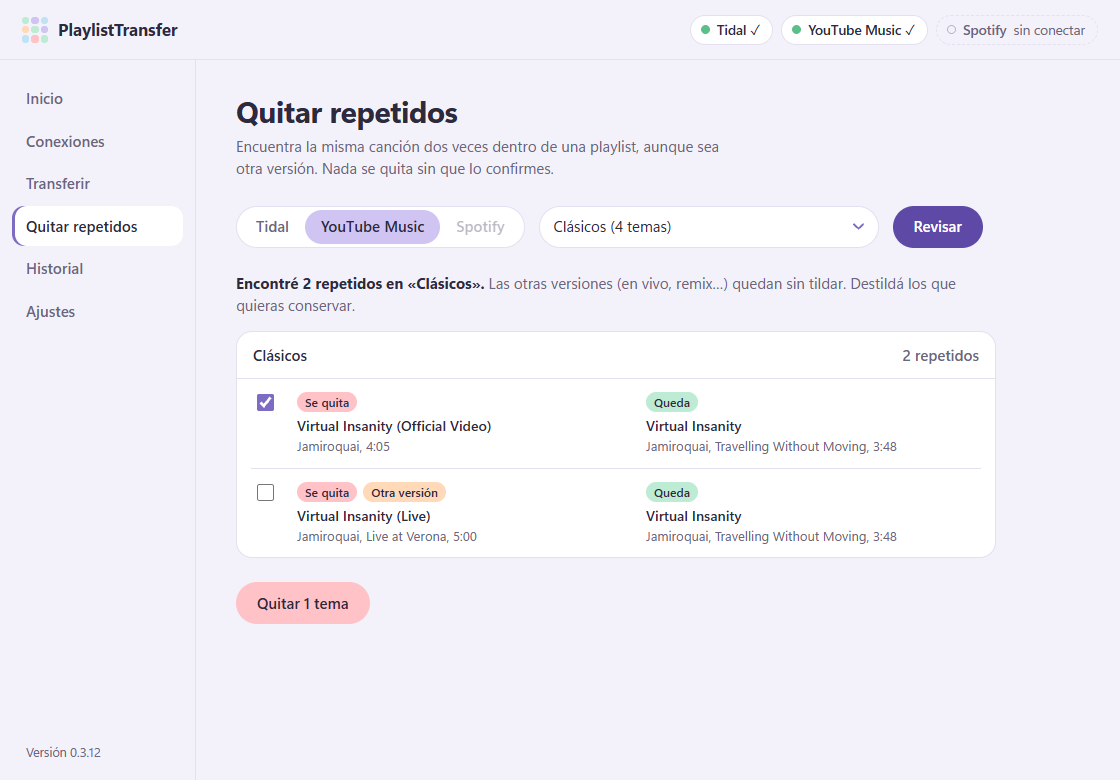
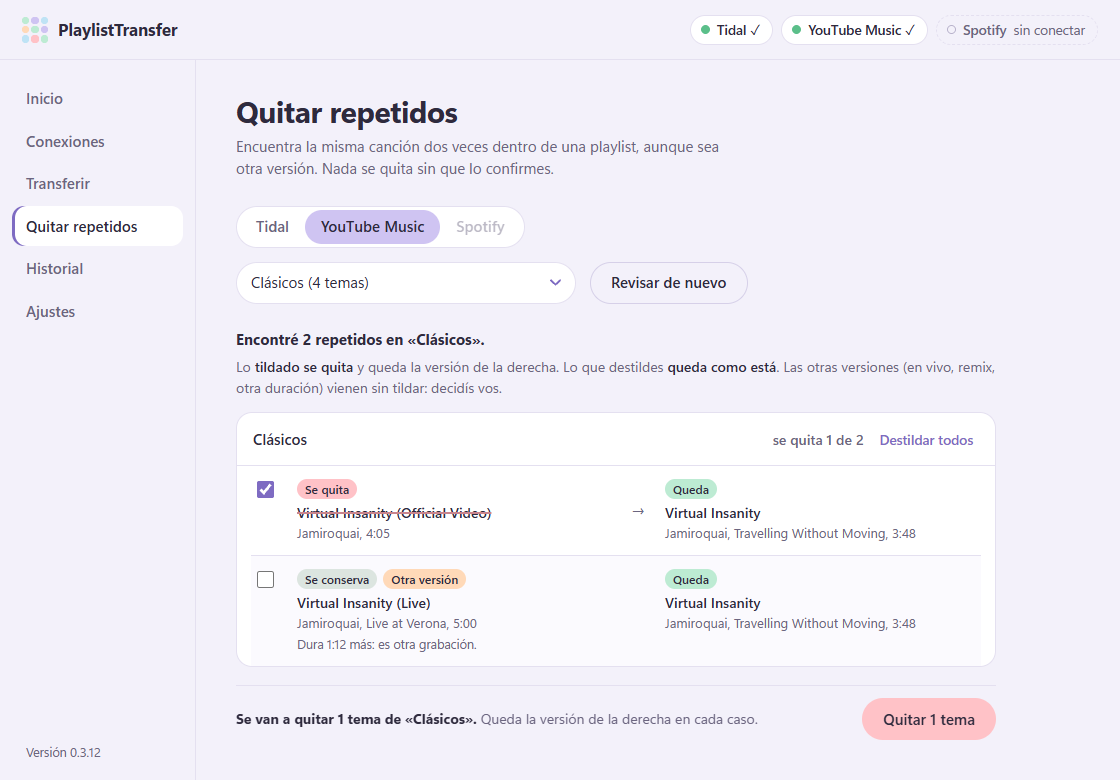
Remove duplicates: every row says what will happen; the decision stays in sight
- A bar pinned to the bottom of the window says "3 songs will be removed
  from 2 playlists. The version on the right stays in each case", with
  the button next to it, so nobody has to guess the decision is at the
  end of a long list. The black notice now appears above it.
- Ticked rows show "Removed", a struck-through title and an arrow to the
  one that stays; unticked rows switch to "Kept". Each playlist card
  says how many will be removed and has "Tick all / Untick all".
- Above the list, what ticking means is spelled out. Rows left unticked
  because they last very differently say so ("It's 2:45 longer: another
  recording").
- The confirmation lists how many songs go from each playlist. "Check"
  turns into a secondary "Check again" once there are results.
- Same layout as the approved prototype, measured in tests at both
  window sizes.

diff --git a/app/ui/js/dedupe.js b/app/ui/js/dedupe.js
@@ -42,8 +42,19 @@ function clearDups() {
   state.scan = null;
   $("#dups").innerHTML = ""; $("#dup-summary").hidden = true; $("#dup-actions").hidden = true;
   $("#dup-clean").hidden = true; $("#dup-failed").hidden = true; $("#dup-progress").hidden = true;
-  $("#dup-how").hidden = false;
+  $("#dup-hint").hidden = true; $("#dup-how").hidden = false;
+  scanButton(false);
 }
+
+/** Antes de revisar, "Revisar" es la acción principal; con el resultado a la vista lo es la barra de abajo. */
+function scanButton(results) {
+  const b = $("#dup-scan");
+  b.classList.toggle("primary", !results); b.classList.toggle("ghost", results);
+  b.textContent = t(results ? "dedupe.scan_again" : "dedupe.scan");
+}
+
+/** Texto con **negritas**: se escapa todo y solo se marcan esas partes. */
+const rich = text => esc(text).replace(/\*\*(.+?)\*\*/g, "<b>$1</b>");
 
 /* ---- revisando: cuál va y cómo dio cada una */
 
@@ -112,8 +123,6 @@ function showDupResults() {
   $("#dup-how").hidden = true;
   $("#dup-summary").hidden = false;
   const total = groups.reduce((s, g) => s + g.duplicates.length, 0);
-  const versions = groups.some(g => g.duplicates.some(d => d.kind !== "misma"));
-  const hints = groups.length ? (versions ? `${t("dedupe.versions_hint")} ` : "") + t("dedupe.uncheck_hint") : "";
   let head;
   if (!res.many) {
     const g = groups[0];
@@ -122,15 +131,22 @@ function showDupResults() {
     head = groups.length ? t("dedupe.found_many", { dups: dupCount(total), k: groups.length, total: res.checked })
       : t("dedupe.all_clean", { n: res.checked });
   }
-  $("#dup-summary").innerHTML = `<b>${esc(head)}</b>${hints ? ` <span class="muted">${esc(hints)}</span>` : ""}`;
+  $("#dup-summary").innerHTML = `<b>${esc(head)}</b>`;
+  // Qué significa tildar, dicho antes de la lista: nada queda librado a la intuición
+  $("#dup-hint").hidden = !groups.length; $("#dup-hint").innerHTML = groups.length ? rich(t("dedupe.decide_hint")) : "";
+  scanButton(true);
 
   const meta = s => [s.artist, s.album, mmss(s.duration)].filter(Boolean).map(esc).join(", ");
+  const why = d => d.longer == null ? ""
+    : `<div class="why">${esc(t(d.longer > 0 ? "dedupe.why_longer" : "dedupe.why_shorter", { time: mmss(Math.abs(d.longer)) }))}</div>`;
   $("#dups").innerHTML = groups.map((g, gi) => `
     <section class="dup-group" data-g="${gi}">
-      <header><span>${esc(g.name)}</span><span class="muted">${esc(dupCount(g.duplicates.length))}</span></header>
+      <header><span>${esc(g.name)}</span>
+        <span class="dup-group-right"><span class="dup-group-count"></span><button class="dup-toggle" data-toggle="${gi}"></button></span></header>
       <ul class="dups">${g.duplicates.map(d => `
         <li><input type="checkbox" ${d.kind === "misma" ? "checked" : ""} aria-label="${esc(t("dedupe.remove_aria", { title: d.song.title }))}" data-g="${gi}" data-i="${d.i}">
-          <div class="side remove"><span class="tag">${esc(t("dedupe.tag_remove"))}</span>${d.kind !== "misma" ? `<span class="tag version">${esc(t("dedupe.tag_version"))}</span>` : ""}<div class="t">${esc(d.song.title)}</div><div class="meta">${meta(d.song)}</div></div>
+          <div class="side remove"><span class="tag on">${esc(t("dedupe.tag_remove"))}</span><span class="tag off">${esc(t("dedupe.tag_keep_both"))}</span>${d.kind !== "misma" ? `<span class="tag version">${esc(t("dedupe.tag_version"))}</span>` : ""}<div class="t">${esc(d.song.title)}</div><div class="meta">${meta(d.song)}</div>${why(d)}</div>
+          <span class="arrow" aria-hidden="true">→</span>
           <div class="side keep"><span class="tag">${esc(t("dedupe.tag_keep"))}</span><div class="t">${esc(d.kept.title)}</div><div class="meta">${meta(d.kept)}</div></div></li>`).join("")}
       </ul>
     </section>`).join("");
@@ -162,17 +178,37 @@ function updateRemove() {
   if (!state.scan) return;
   const choices = dupChoices();
   const c = choices.reduce((s, x) => s + x.selected.length, 0), lists = choices.length;
-  const label = lists > 1 ? t("dedupe.remove_many", { songs: songs(c), lists: listCount(lists) }) : t("dedupe.remove_n", { n: c });
+  const label = t("dedupe.remove_n", { n: c });
   $("#remove").textContent = label; $("#confirm-yes").textContent = label;
   $("#remove").dataset.blocked = c ? "0" : "1"; $("#remove").disabled = !c || state.busy;
   const one = lists === 1 ? state.scan.groups.find(g => g.scan === choices[0].scan) : null;
-  $("#c-title").textContent = one ? t("dedupe.confirm_title", { action: label, name: one.name }) : t("dedupe.confirm_title_many", { action: label });
+  $("#c-title").textContent = one ? t("dedupe.confirm_title", { action: label, name: one.name })
+    : t("dedupe.confirm_title_lists", { songs: songs(c), lists: listCount(lists) });
+  // La barra dice qué va a pasar si se confirma, siempre a la vista
+  $("#dup-decide-text").innerHTML = !c ? `<b>${esc(t("dedupe.decide_none"))}</b>`
+    : `<b>${esc(one ? t("dedupe.decide_one", { songs: songs(c), name: one.name }) : t("dedupe.decide", { songs: songs(c), lists: listCount(lists) }))}</b> ${esc(t("dedupe.decide_keep"))}`;
+  // Cada playlist: cuántos se quitan y "tildar / destildar todos"
+  $$("#dups .dup-group").forEach(sec => {
+    const boxes = $$("input", sec), on = boxes.filter(b => b.checked).length;
+    $(".dup-group-count", sec).textContent = t("dedupe.group_count", { n: on, total: boxes.length });
+    $(".dup-toggle", sec).textContent = t(on ? "dedupe.untick_all" : "dedupe.tick_all");
+  });
+  // La confirmación, con cuántos de cada playlist si son varias
+  const per = choices.map(x => [state.scan.groups.find(g => g.scan === x.scan)?.name, x.selected.length]);
+  $("#c-list").hidden = per.length < 2;
+  $("#c-list").innerHTML = per.length < 2 ? "" : per.map(([name, n]) => `<li>${esc(t("dedupe.confirm_item", { name, songs: songs(n) }))}</li>`).join("");
   // Spotify quita todas las copias de una canción: la que queda vuelve a agregarse en su lugar
   const readd = $$("#dups input:checked").filter(i => state.scan.groups[Number(i.dataset.g)]?.duplicates[Number(i.dataset.i)]?.readd).length;
   $("#c-readd").hidden = !readd;
   $("#c-readd").textContent = readd ? t("dedupe.confirm_readd", { n: readd, service: NAMES[state.dupService] }) : "";
 }
 $("#dups").addEventListener("change", updateRemove);
+$("#dups").addEventListener("click", e => {
+  const b = e.target.closest("[data-toggle]"); if (!b) return;
+  const boxes = $$("input", b.closest(".dup-group")), any = boxes.some(x => x.checked);
+  boxes.forEach(x => { x.checked = !any; });
+  updateRemove();
+});
 $("#dup-scan").addEventListener("click", scanDups);
 $("#remove").addEventListener("click", () => { if (state.scan && dupChoices().length) $("#confirm").showModal(); });
 $("#confirm-no").addEventListener("click", () => $("#confirm").close());

diff --git a/app/ui/styles.css b/app/ui/styles.css
@@ -36,6 +36,8 @@
   --gap-in-box: 16px;        /* lo mismo, dentro de una caja (resultado, Ajustes) */
   --toast-bottom: 36px;      /* el aviso negro, abajo al centro */
   --toast-h: 44px;
+  --main-pad-b: calc(var(--toast-bottom) + var(--toast-h) + 24px);   /* lugar abajo para que el aviso no tape el final */
+  --decide-h: 68px;         /* la barra de decisión de Quitar repetidos (el aviso negro va arriba de ella) */
 }
 
 /* =========================================================================== base */
@@ -128,7 +130,7 @@ nav .version { padding: 0 14px; font-size: 12.5px; color: var(--ink-soft); }
 
 /* Una palabra larguísima (un nombre de playlist) se corta en vez de empujar */
 /* abajo, lugar para el aviso: al bajar del todo, lo último queda por encima, nunca tapado */
-main { overflow-y: auto; padding: 34px 40px calc(var(--toast-bottom) + var(--toast-h) + 24px); overflow-wrap: anywhere; }
+main { overflow-y: auto; padding: 34px 40px var(--main-pad-b); overflow-wrap: anywhere; }
 .screen { display: none; max-width: 760px; }
 .screen.active { display: block; }
 
@@ -201,6 +203,7 @@ dialog p { margin: 0; color: var(--ink-soft); }
 dialog p + p { margin-top: 10px; }            /* un segundo aviso (Spotify) separado del primero */
 .toast { position: fixed; left: 50%; bottom: var(--toast-bottom); min-height: var(--toast-h); box-sizing: border-box; transform: translate(-50%, 20px); opacity: 0; background: var(--ink); color: #fff; padding: 11px 18px; border-radius: 999px; font-weight: 500; transition: opacity .25s, transform .25s; pointer-events: none; }
 .toast.show { opacity: 1; transform: translate(-50%, 0); }
+body:has(#repetidos.active .dup-decide:not([hidden])) .toast { bottom: calc(var(--decide-h) + 16px); }   /* no tapa la decisión */
 
 /* ---- mosaico: un cuadrado por tema, con su color */
 .mosaic { display: grid; gap: 5px; }
@@ -407,8 +410,32 @@ dialog p + p { margin-top: 10px; }            /* un segundo aviso (Spotify) sepa
 .dup-group .dups { margin: 0; padding: 0 14px; }
 .dup-group .dups li:last-child { border-bottom: 0; }
 .dup-clean { margin: 14px 0 0; font-size: 14px; max-width: 760px; }
+.dup-hint { margin: 6px 0 0; color: var(--ink-soft); font-size: 14px; max-width: 760px; }
+.dup-hint b { color: var(--ink); font-weight: 600; }
+.dup-group > header .dup-group-right { flex: none; display: flex; align-items: center; gap: 10px; font-weight: 500; color: var(--ink-soft); font-size: 14px; }
+.dup-toggle { height: var(--h-sm); border: 0; background: none; color: var(--lav-strong); font-weight: 600; font-size: 13.5px; padding: 0 6px; border-radius: 8px; cursor: pointer; }
+.dup-toggle:hover { background: var(--pending); }
+/* Cada fila dice lo que va a pasar: tildada, se quita (tachada) → queda; sin tildar, se conservan las dos */
+.dups .arrow { align-self: center; color: var(--ink-soft); font-size: 16px; text-align: center; }
+.dups .side .tag.off { display: none; background: var(--sage); }
+.dups li:has(input:not(:checked)) .side .tag.on { display: none; }
+.dups li:has(input:not(:checked)) .side .tag.off { display: inline-block; }
+.dups li:has(input:checked) .remove .t { text-decoration: line-through; text-decoration-color: #C9858D; text-decoration-thickness: 1.5px; }
+.dups li:has(input:not(:checked)) .arrow { visibility: hidden; }
+.dups li:has(input:not(:checked)) { background: #FBFAFE; }
+.dups .why { font-size: 12.5px; color: var(--ink-soft); margin-top: 3px; }
+/* La barra de decisión: pegada abajo mientras se baja por la lista */
+/* bottom negativo: pegada al borde de la ventana, también sobre el lugar que main deja para el aviso */
+.dup-decide { position: sticky; bottom: calc(-1 * var(--main-pad-b)); z-index: 2; margin: 18px 0 0; max-width: 760px; min-height: var(--decide-h); box-sizing: border-box;
+              background: rgba(243, 241, 250, .94); backdrop-filter: blur(6px); border-top: 1px solid var(--line);
+              padding: 12px 0 14px; display: flex; align-items: center; justify-content: space-between; gap: 16px; }
+.dup-decide[hidden] { display: none; }
+.dup-decide p { margin: 0; font-size: 14px; color: var(--ink-soft); min-width: 0; }
+.dup-decide p b { color: var(--ink); }
+.dup-decide .btn { flex: none; white-space: nowrap; }
+.c-list { margin: 8px 0 0; padding-left: 18px; font-size: 14px; }
 .dups { list-style: none; padding: 0; margin: 22px 0 0; border-top: 1px solid var(--line); }
-.dups li { display: grid; grid-template-columns: 28px minmax(0, 1fr) minmax(0, 1fr); gap: 16px; padding: 12px 2px; border-bottom: 1px solid var(--line); align-items: start; }
+.dups li { display: grid; grid-template-columns: 28px minmax(0, 1fr) 22px minmax(0, 1fr); gap: 16px; padding: 12px 2px; border-bottom: 1px solid var(--line); align-items: start; }
 .dups input { accent-color: var(--lav-strong); width: 17px; height: 17px; margin-top: 3px; }
 .dups .side { font-size: 14px; min-width: 0; }
 .dups .side .tag { display: inline-block; font-size: 12px; font-weight: 600; padding: 1px 8px; border-radius: 999px; margin-bottom: 3px; }

diff --git a/app/ui/index.html b/app/ui/index.html
@@ -148,10 +148,13 @@
         <ul class="dup-pl" id="dup-pl"></ul>
       </div>
       <p class="dup-summary" id="dup-summary" hidden></p>
+      <p class="dup-hint" id="dup-hint" hidden></p>
       <div id="dups"></div>
       <p class="dup-clean muted" id="dup-clean" hidden></p>
       <p class="dup-clean error" id="dup-failed" hidden></p>
-      <div class="actions" id="dup-actions" hidden>
+      <!-- La decisión, siempre a la vista mientras se baja por la lista -->
+      <div class="dup-decide" id="dup-actions" hidden>
+        <p id="dup-decide-text"></p>
         <button class="btn danger" id="remove" disabled data-i18n="dedupe.remove">Quitar</button>
       </div>
     </section>
@@ -243,6 +246,7 @@
 
 <dialog id="confirm" aria-labelledby="c-title">
   <h3 id="c-title"></h3>
+  <ul class="c-list" id="c-list" hidden></ul>
   <p data-i18n="dedupe.confirm_text">Queda la versión que estaba primero en la playlist. Lo quitado queda anotado en el historial.</p>
   <p class="muted" id="c-readd" hidden></p>
   <div class="actions">

diff --git a/tests/test_ui_dedupe.py b/tests/test_ui_dedupe.py
@@ -268,19 +268,24 @@ def test_checking_all_shows_progress_then_one_card_per_playlist(browser, tmp_pat
     page.evaluate("document.querySelector('#dup-progress').hidden = true; state.scan = saved; showDupResults()")
     summary = page.inner_text("#dup-summary")
     assert summary.startswith("Encontré 3 repetidos en 2 de 10 playlists.")
-    assert page.locator(".dup-group header").all_inner_texts() == ["Clásicos\n2 repetidos", "Primera\n1 repetido"]
+    assert page.locator(".dup-group header").all_inner_texts() == ["Clásicos\nse quita 1 de 2\nDestildar todos",
+                                                                   "Primera\nse quita 1 de 1\nDestildar todos"]
     assert page.inner_text("#dup-clean") == "Sin repetidos: Limpia número 0, Limpia número 1, Limpia número 2, Limpia número 3 y 4 más."
-    assert page.inner_text("#remove") == "Quitar 2 temas de 2 playlists"
+    assert "tildado se quita" in page.inner_text("#dup-hint")                # qué significa tildar, antes de la lista
+    assert page.inner_text("#remove") == "Quitar 2 temas" and page.inner_text("#dup-scan") == "Revisar de nuevo"
+    assert page.inner_text("#dup-decide-text") == "Se van a quitar 2 temas de 2 playlists. Queda la versión de la derecha en cada caso."
     shot(page, f"repetidos-resultado-{size}")
     assert page.evaluate(ALIGN) == [] and check(page, "repetidos") == []
     page.click("#remove")
     assert page.inner_text("#c-title") == "¿Quitar 2 temas de 2 playlists?"
+    assert page.locator("#c-list li").all_inner_texts() == ["Clásicos: 1 tema", "Primera: 1 tema"]
     page.click("#confirm-yes")
     page.wait_for_selector("text=Quitaste 2 temas de 2 playlists.")
     page.wait_for_function("!state.busy")
     assert [s.id for s in yt.songs("aaa")] == ["d1", "t3"] and len(yt.songs("dups")) == 3
     # Lo que queda: la "Otra versión" de Clásicos (sin tildar), y Primera pasó a las que están bien
-    assert page.locator(".dup-group header").all_inner_texts() == ["Clásicos\n1 repetido"]
+    assert page.locator(".dup-group header").all_inner_texts() == ["Clásicos\nse quitan 0 de 1\nTildar todos"]
+    assert page.inner_text("#dup-decide-text") == "No hay nada tildado: no se va a quitar nada." and page.is_disabled("#remove")
     assert page.inner_text("#dup-clean").startswith("Sin repetidos: Primera,")
     assert errors == []
 
@@ -300,3 +305,49 @@ def test_when_every_playlist_is_fine_it_says_which_ones_were_checked(browser, tm
     assert page.inner_text("#dup-summary") == "Ninguna de las 3 playlists tiene repetidos."
     assert page.inner_text("#dup-clean") == "Revisé Limpia 0, Limpia 1, Limpia 2."
     assert page.locator(".dup-group").count() == 0 and page.is_hidden("#dup-actions") and errors == []
+
+
+
+def test_each_row_says_what_will_happen_and_the_decision_is_always_in_sight(browser, tmp_path):
+    """Pedido del usuario (2026-11-24): no dejar nada a la intuición. Tildada: se quita (tachada) → queda.
+    Sin tildar: se conserva. La barra con la decisión se ve aunque la lista sea larga."""
+    api, tidal, yt = make_api(tmp_path)
+    many = []
+    for i in range(12):
+        many += [S(f"Tema {i}", "X", dur=200, id=f"m{i}"), S(f"Tema {i}", "X", dur=201, id=f"r{i}")]
+    many += [S("Rasputin", "Majestic", "Boney M.", dur=187, id="ras1"), S("Rasputin", "Boney M.", dur=352, id="ras2")]
+    yt.add_playlist("larga", "Larga", many)
+    page, errors = open_page(browser, api)
+    page.click("nav [data-go=repetidos]")
+    page.click("#dup-svc [data-svc=ytmusic]")
+    page.wait_for_selector("#dup-playlist option[value=larga]", state="attached")
+    page.select_option("#dup-playlist", "larga")
+    page.click("#dup-scan")
+    page.wait_for_selector(".dup-group")
+    row = page.locator(".dups li >> nth=0")
+    shown = "el => [...el.querySelectorAll('.remove .tag')].filter(t => t.getBoundingClientRect().width).map(t => t.textContent)"
+    assert row.evaluate(shown) == ["Se quita"] and row.locator(".arrow").is_visible()
+    assert row.locator(".remove .t").evaluate("el => getComputedStyle(el).textDecorationLine") == "line-through"
+    row.locator("input").uncheck()
+    assert row.evaluate(shown) == ["Se conserva"] and not row.locator(".arrow").is_visible()
+    assert "Se van a quitar 11 temas" in page.inner_text("#dup-decide-text")
+    # La otra grabación viene sin tildar y dice por qué
+    ras = page.locator(".dups li", has_text="Rasputin")
+    assert not ras.locator("input").is_checked() and ras.locator(".why").inner_text() == "Dura 2:45 más: es otra grabación."
+    # Con la lista larga, la barra queda pegada abajo de la ventana mientras se baja
+    page.evaluate("document.querySelector('main').scrollTop = 400")
+    page.wait_for_timeout(100)
+    bar = page.evaluate("(() => { const r = document.querySelector('#dup-actions').getBoundingClientRect(); return [r.bottom, document.querySelector('main').getBoundingClientRect().bottom]; })()")
+    assert abs(bar[0] - bar[1]) <= 1, bar
+    shot(page, "repetidos-barra-fija")
+    # "Destildar todos" y vuelta
+    page.click(".dup-toggle")
+    assert page.inner_text("#dup-decide-text") == "No hay nada tildado: no se va a quitar nada."
+    page.click(".dup-toggle")
+    assert "Se van a quitar 13 temas" in page.inner_text("#dup-decide-text")
+    # El aviso negro no tapa la barra de decisión
+    page.add_style_tag(content=".toast { transition: none !important; }")
+    page.evaluate("toast('Quitaste 3 temas de «Larga».')")
+    t, b = page.evaluate("[document.querySelector('#toast').getBoundingClientRect().bottom, document.querySelector('#dup-actions').getBoundingClientRect().top]")
+    assert t <= b, (t, b)
+    assert page.evaluate(ALIGN) == [] and check(page, "repetidos") == [] and errors == []

diff --git a/app/api/duplicates.py b/app/api/duplicates.py
@@ -6,7 +6,7 @@ import time
 
 from app.api.base import ApiBase, _artist, _remember
 from app.connectors.base import Connector, ConnectorError, NoNetwork, NotConnectedError
-from app.core.matching import find_duplicates
+from app.core.matching import OTHER_LENGTH, find_duplicates
 from app.core.models import Cancelled, Duplicate
 from app.core.transfer import song_dict
 from app.i18n import t as tr
@@ -16,6 +16,11 @@ ALL = "__all__"      # la UI pide revisar todas las playlists del servicio
 
 # Una revisión de varias playlists se recuerda entera (como una sola), con un número por playlist
 _parts = itertools.count(1)
+
+
+def _longer(d: Duplicate) -> int | None:
+    a, b = d.song.duration, d.kept.duration
+    return a - b if d.kind != "misma" and a and b and abs(a - b) > OTHER_LENGTH else None
 
 
 class DuplicatesApi(ApiBase):
@@ -66,6 +71,8 @@ class DuplicatesApi(ApiBase):
         return {"scan": scan_id, "playlist_id": playlist_id, "name": name, "total": len(songs),
                 "duplicates": [{"i": i, "index": d.index, "kind": d.kind, "song": song_dict(d.song),
                                 "kept": song_dict(d.kept),
+                                # Por qué viene sin tildar: dura muy distinto (segundos de más o de menos)
+                                "longer": _longer(d),
                                 # Spotify: la que queda se quita y se vuelve a agregar (se avisa antes)
                                 "readd": c.removes_all_copies and d.song.id is not None and d.song.id == d.kept.id}
                                for i, d in enumerate(dups)]}
